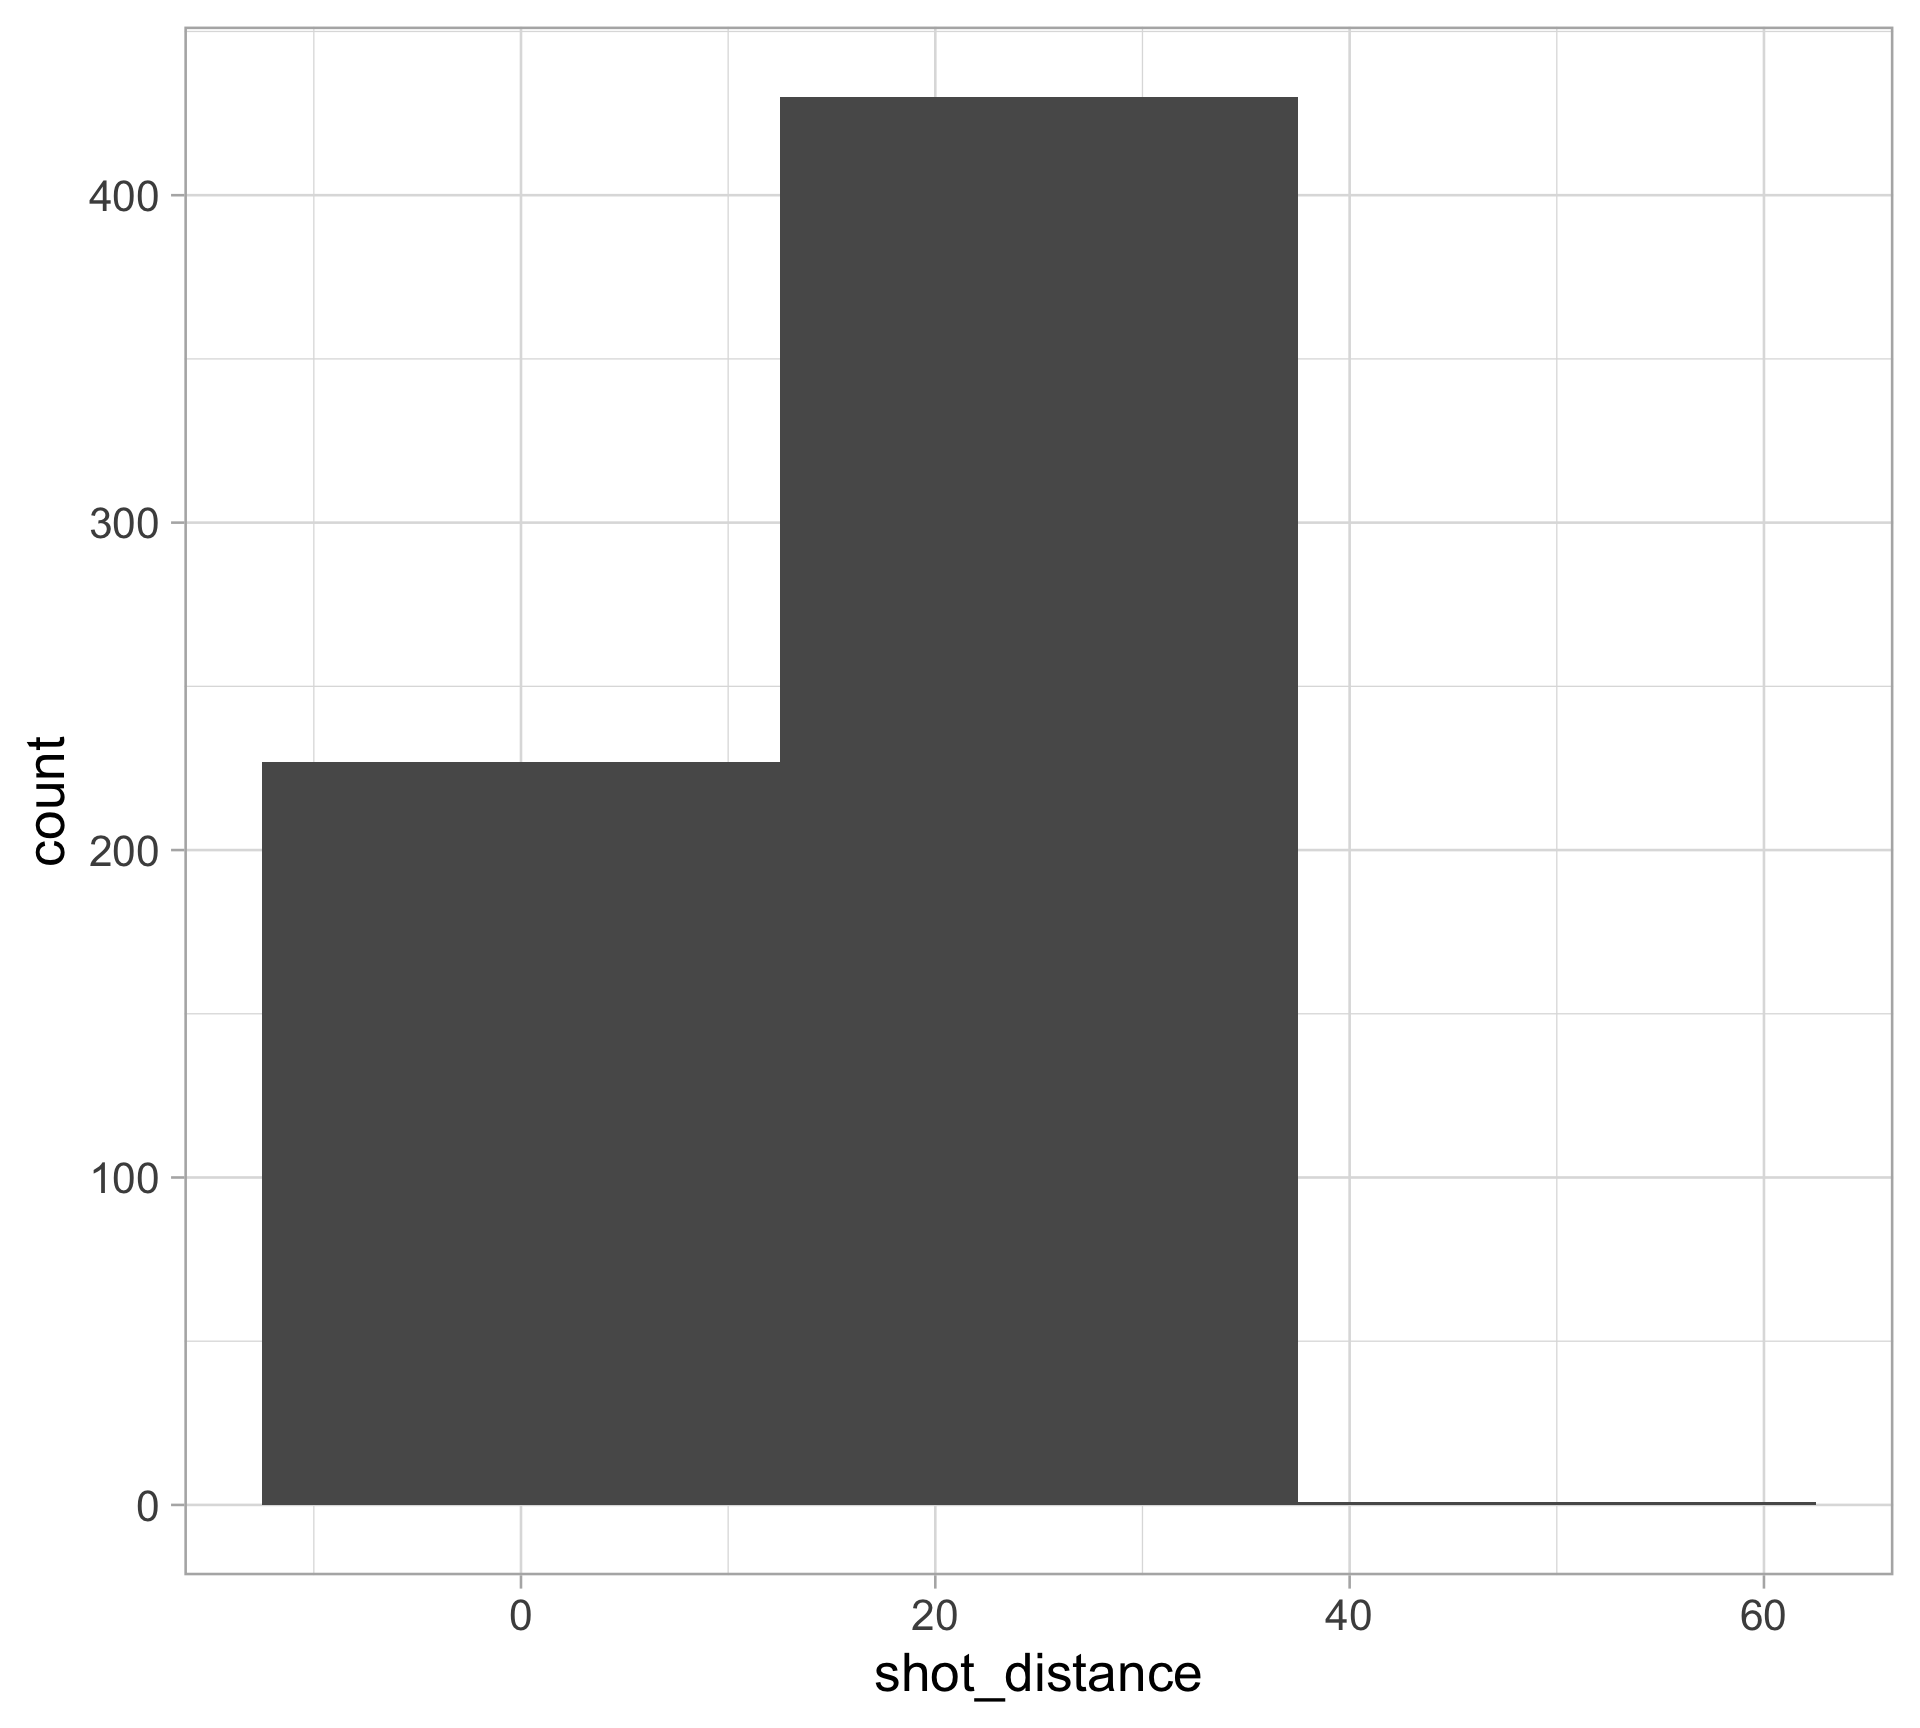
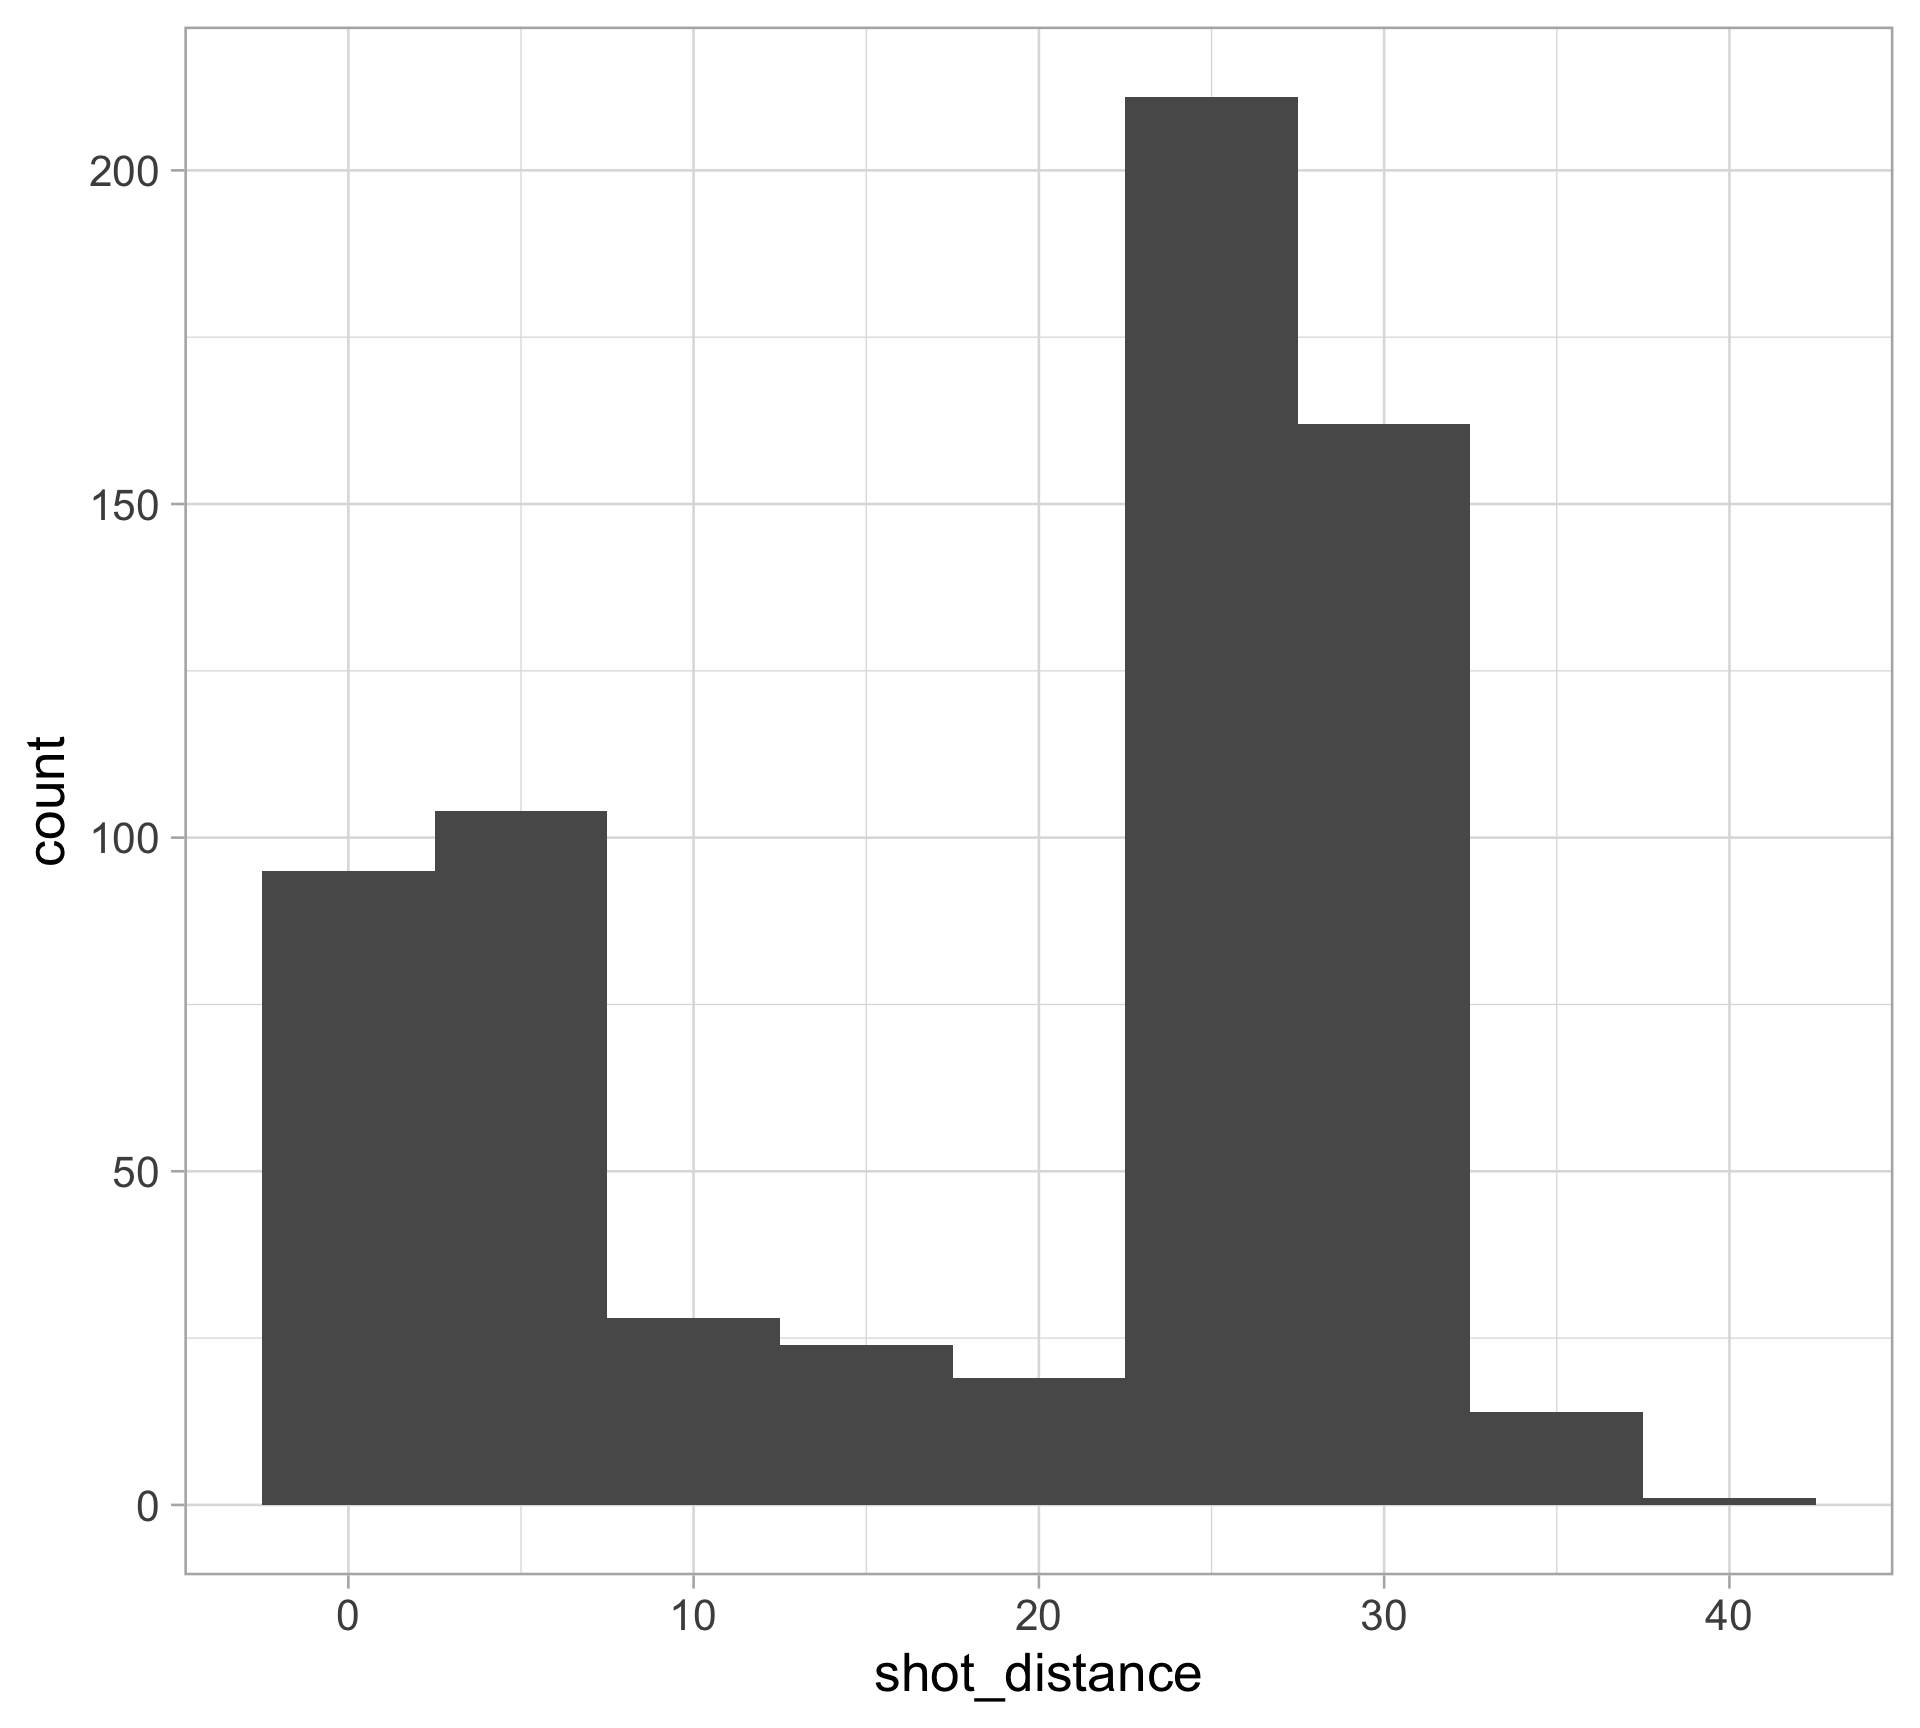
Built site for gh-pages

diff --git a/lectures/08-density.html b/lectures/08-density.html
@@ -243,7 +243,7 @@ $ shot_type     &lt;chr&gt; "Running Pullup Jump Shot", "Pullup Jump Shot", "Ste
 <div class="sourceCode cell-code" id="cb3"><pre class="sourceCode r code-with-copy"><code class="sourceCode r"><span id="cb3-1"><a aria-hidden="true" tabindex="-1"></a>fd_bw <span class="ot">&lt;-</span> <span class="dv">2</span> <span class="sc">*</span> <span class="fu">IQR</span>(clark_shots<span class="sc">$</span>shot_distance) <span class="sc">/</span> <span class="fu">length</span>(clark_shots<span class="sc">$</span>shot_distance)<span class="sc">^</span>(<span class="dv">1</span><span class="sc">/</span><span class="dv">3</span>)</span>
 <span id="cb3-2"><a aria-hidden="true" tabindex="-1"></a>clark_shots <span class="sc">|&gt;</span></span>
 <span id="cb3-3"><a aria-hidden="true" tabindex="-1"></a>  <span class="fu">ggplot</span>(<span class="fu">aes</span>(<span class="at">x =</span> shot_distance)) <span class="sc">+</span></span>
-<span id="cb3-4"><a aria-hidden="true" tabindex="-1"></a>  <span class="fu">geom_histogram</span>(<span class="at">binwidth =</span> fd_bw)</span></code><button title="Copy to Clipboard" class="code-copy-button"><i class="bi"></i></button></pre></div>
+<span id="cb3-4"><a aria-hidden="true" tabindex="-1"></a>  <span class="fu">geom_histogram</span>()</span></code><button title="Copy to Clipboard" class="code-copy-button"><i class="bi"></i></button></pre></div>
 </div>
 <div class="columns">
 <div class="column" style="text-align: left;">
@@ -254,10 +254,7 @@ $ shot_type     &lt;chr&gt; "Running Pullup Jump Shot", "Pullup Jump Shot", "Ste
 <p><strong>Need to choose the number of bins</strong>, adjust with:</p>
 <ul>
 <li><p><code>bins</code>: number of bins (default is 30)</p></li>
-<li><p><code>binwidth</code>: width of bins (overrides <code>bins</code>), various <a href="https://en.wikipedia.org/wiki/Histogram">rules of thumb</a></p>
-<ul>
-<li>e.g., see <code>fd_bw</code> for <a href="https://en.wikipedia.org/wiki/Freedman%E2%80%93Diaconis_rule">Freedman–Diaconis rule</a></li>
-</ul></li>
+<li><p><code>binwidth</code>: width of bins (overrides <code>bins</code>), various <a href="https://en.wikipedia.org/wiki/Histogram">rules of thumb</a></p></li>
 <li><p><code>breaks</code>: vector of bin boundaries (overrides both <code>bins</code> and <code>binwidth</code>)</p></li>
 </ul>
 </div><div class="column" style="text-align: left;">
@@ -281,7 +278,7 @@ $ shot_type     &lt;chr&gt; "Running Pullup Jump Shot", "Pullup Jump Shot", "Ste
 <div class="cell" data-layout-align="center">
 <div class="sourceCode cell-code" id="cb4"><pre class="sourceCode r code-with-copy"><code class="sourceCode r"><span id="cb4-1"><a aria-hidden="true" tabindex="-1"></a>clark_shots <span class="sc">|&gt;</span></span>
 <span id="cb4-2"><a aria-hidden="true" tabindex="-1"></a>  <span class="fu">ggplot</span>(<span class="fu">aes</span>(<span class="at">x =</span> shot_distance)) <span class="sc">+</span></span>
-<span id="cb4-3"><a aria-hidden="true" tabindex="-1"></a>  <span class="fu">geom_histogram</span>(<span class="at">binwidth =</span> <span class="dv">1</span>)</span></code><button title="Copy to Clipboard" class="code-copy-button"><i class="bi"></i></button></pre></div>
+<span id="cb4-3"><a aria-hidden="true" tabindex="-1"></a>  <span class="fu">geom_histogram</span>(<span class="at">binwidth =</span> <span class="fl">0.5</span>)</span></code><button title="Copy to Clipboard" class="code-copy-button"><i class="bi"></i></button></pre></div>
 <div class="cell-output-display">
 <div class="quarto-figure quarto-figure-center">
 <figure>
@@ -295,7 +292,7 @@ $ shot_type     &lt;chr&gt; "Running Pullup Jump Shot", "Pullup Jump Shot", "Ste
 <div class="cell" data-layout-align="center">
 <div class="sourceCode cell-code" id="cb5"><pre class="sourceCode r code-with-copy"><code class="sourceCode r"><span id="cb5-1"><a aria-hidden="true" tabindex="-1"></a>clark_shots <span class="sc">|&gt;</span></span>
 <span id="cb5-2"><a aria-hidden="true" tabindex="-1"></a>  <span class="fu">ggplot</span>(<span class="fu">aes</span>(<span class="at">x =</span> shot_distance)) <span class="sc">+</span></span>
-<span id="cb5-3"><a aria-hidden="true" tabindex="-1"></a>  <span class="fu">geom_histogram</span>(<span class="at">binwidth =</span> <span class="dv">25</span>)</span></code><button title="Copy to Clipboard" class="code-copy-button"><i class="bi"></i></button></pre></div>
+<span id="cb5-3"><a aria-hidden="true" tabindex="-1"></a>  <span class="fu">geom_histogram</span>(<span class="at">binwidth =</span> <span class="dv">5</span>)</span></code><button title="Copy to Clipboard" class="code-copy-button"><i class="bi"></i></button></pre></div>
 <div class="cell-output-display">
 <div class="quarto-figure quarto-figure-center">
 <figure>
